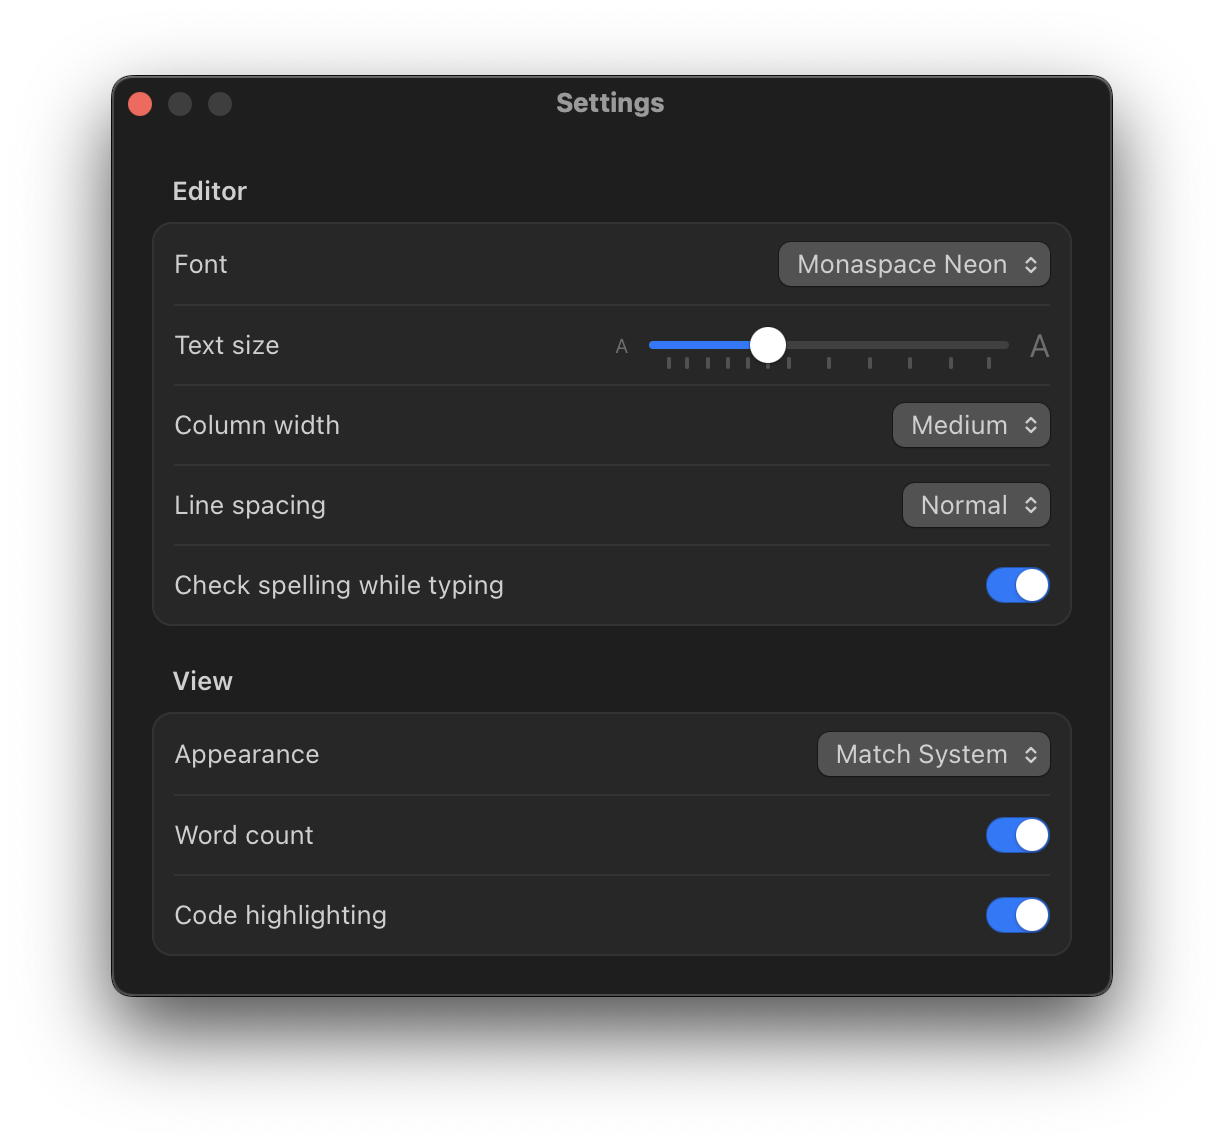
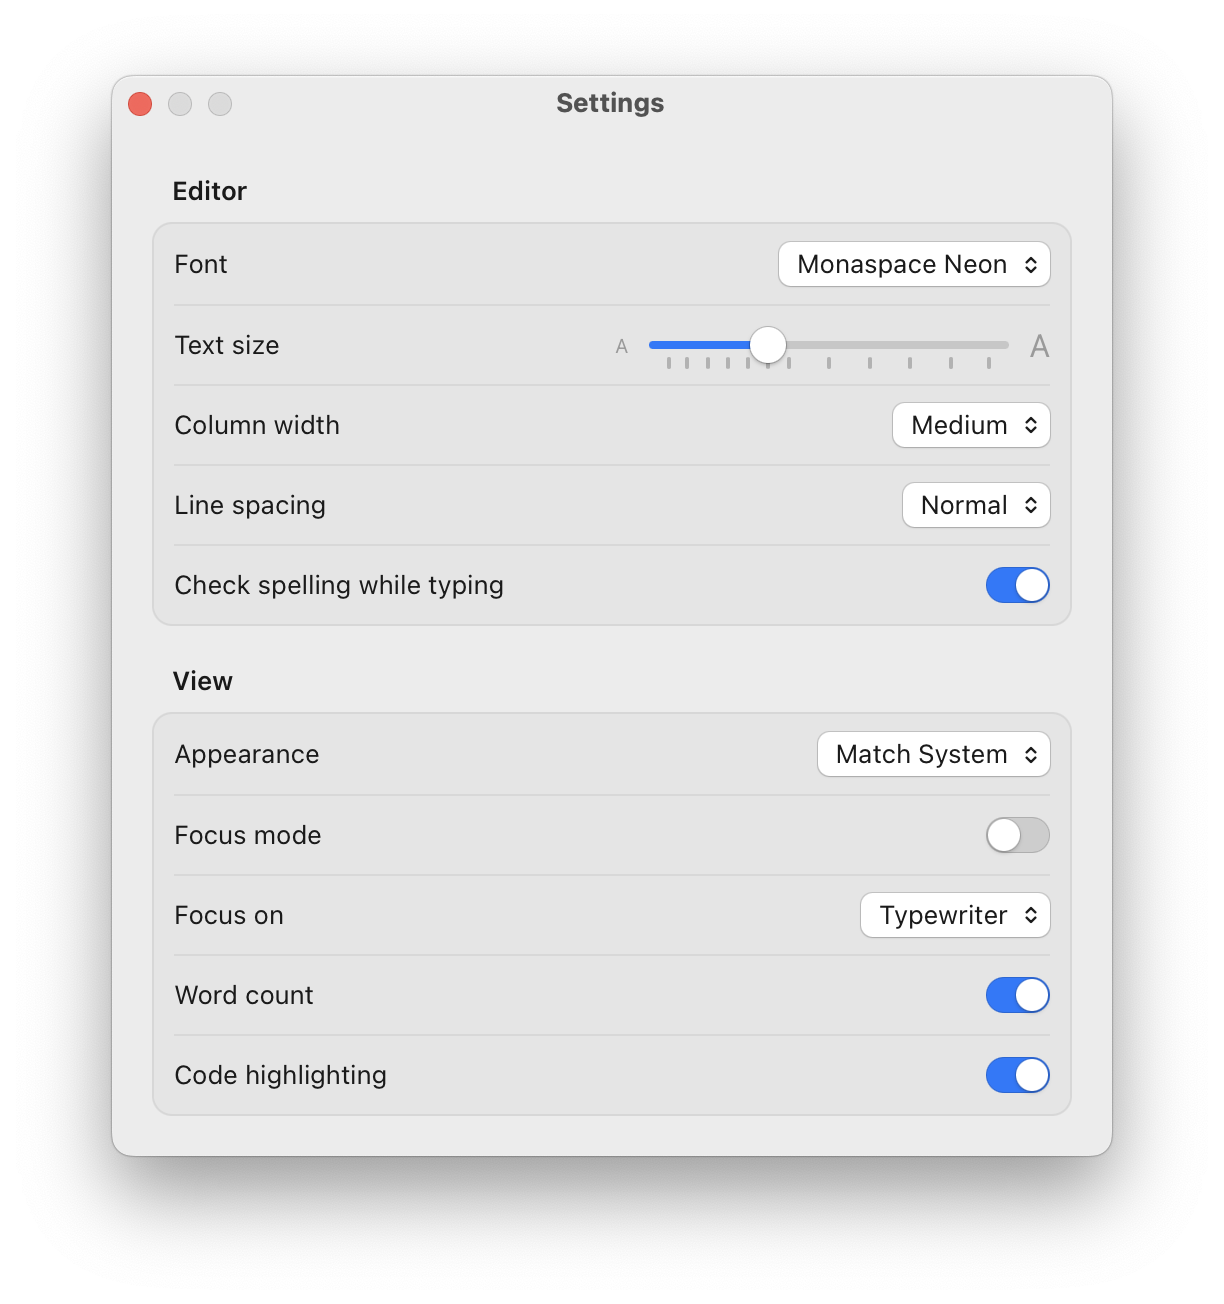
Add marketing screenshot to README and refresh screenshots

diff --git a/README.md b/README.md
@@ -4,6 +4,8 @@
 
 Awen is built to feel like it belongs on your computer. On a Mac it looks and behaves like a Mac app. On Windows it looks and behaves like a Windows 11 app.
 
+![Awen](./screenshots/awen-marketing.png "Awen")
+
 ---
 
 ## Why Awen
